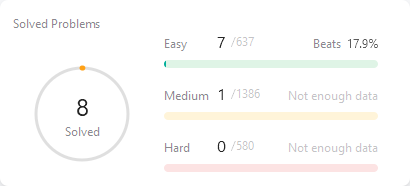
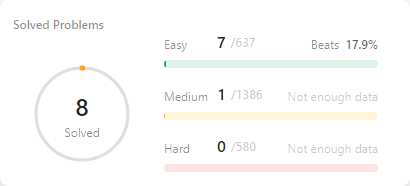
fix

diff --git a/score.js b/score.js
@@ -1,7 +1,7 @@
-const { webkit } = require('playwright');
+const { chromium } = require('playwright');
 
 (async () => {
-  const browser = await webkit.launch();
+  const browser = await chromium.launch();
   const page = await browser.newPage();
   await page.goto('https://leetcode.com/sonohara/');
   await page.locator('div.shadow-level3', {has: page.locator('text=Solved Problems')}).screenshot({ path: `score.png` });
